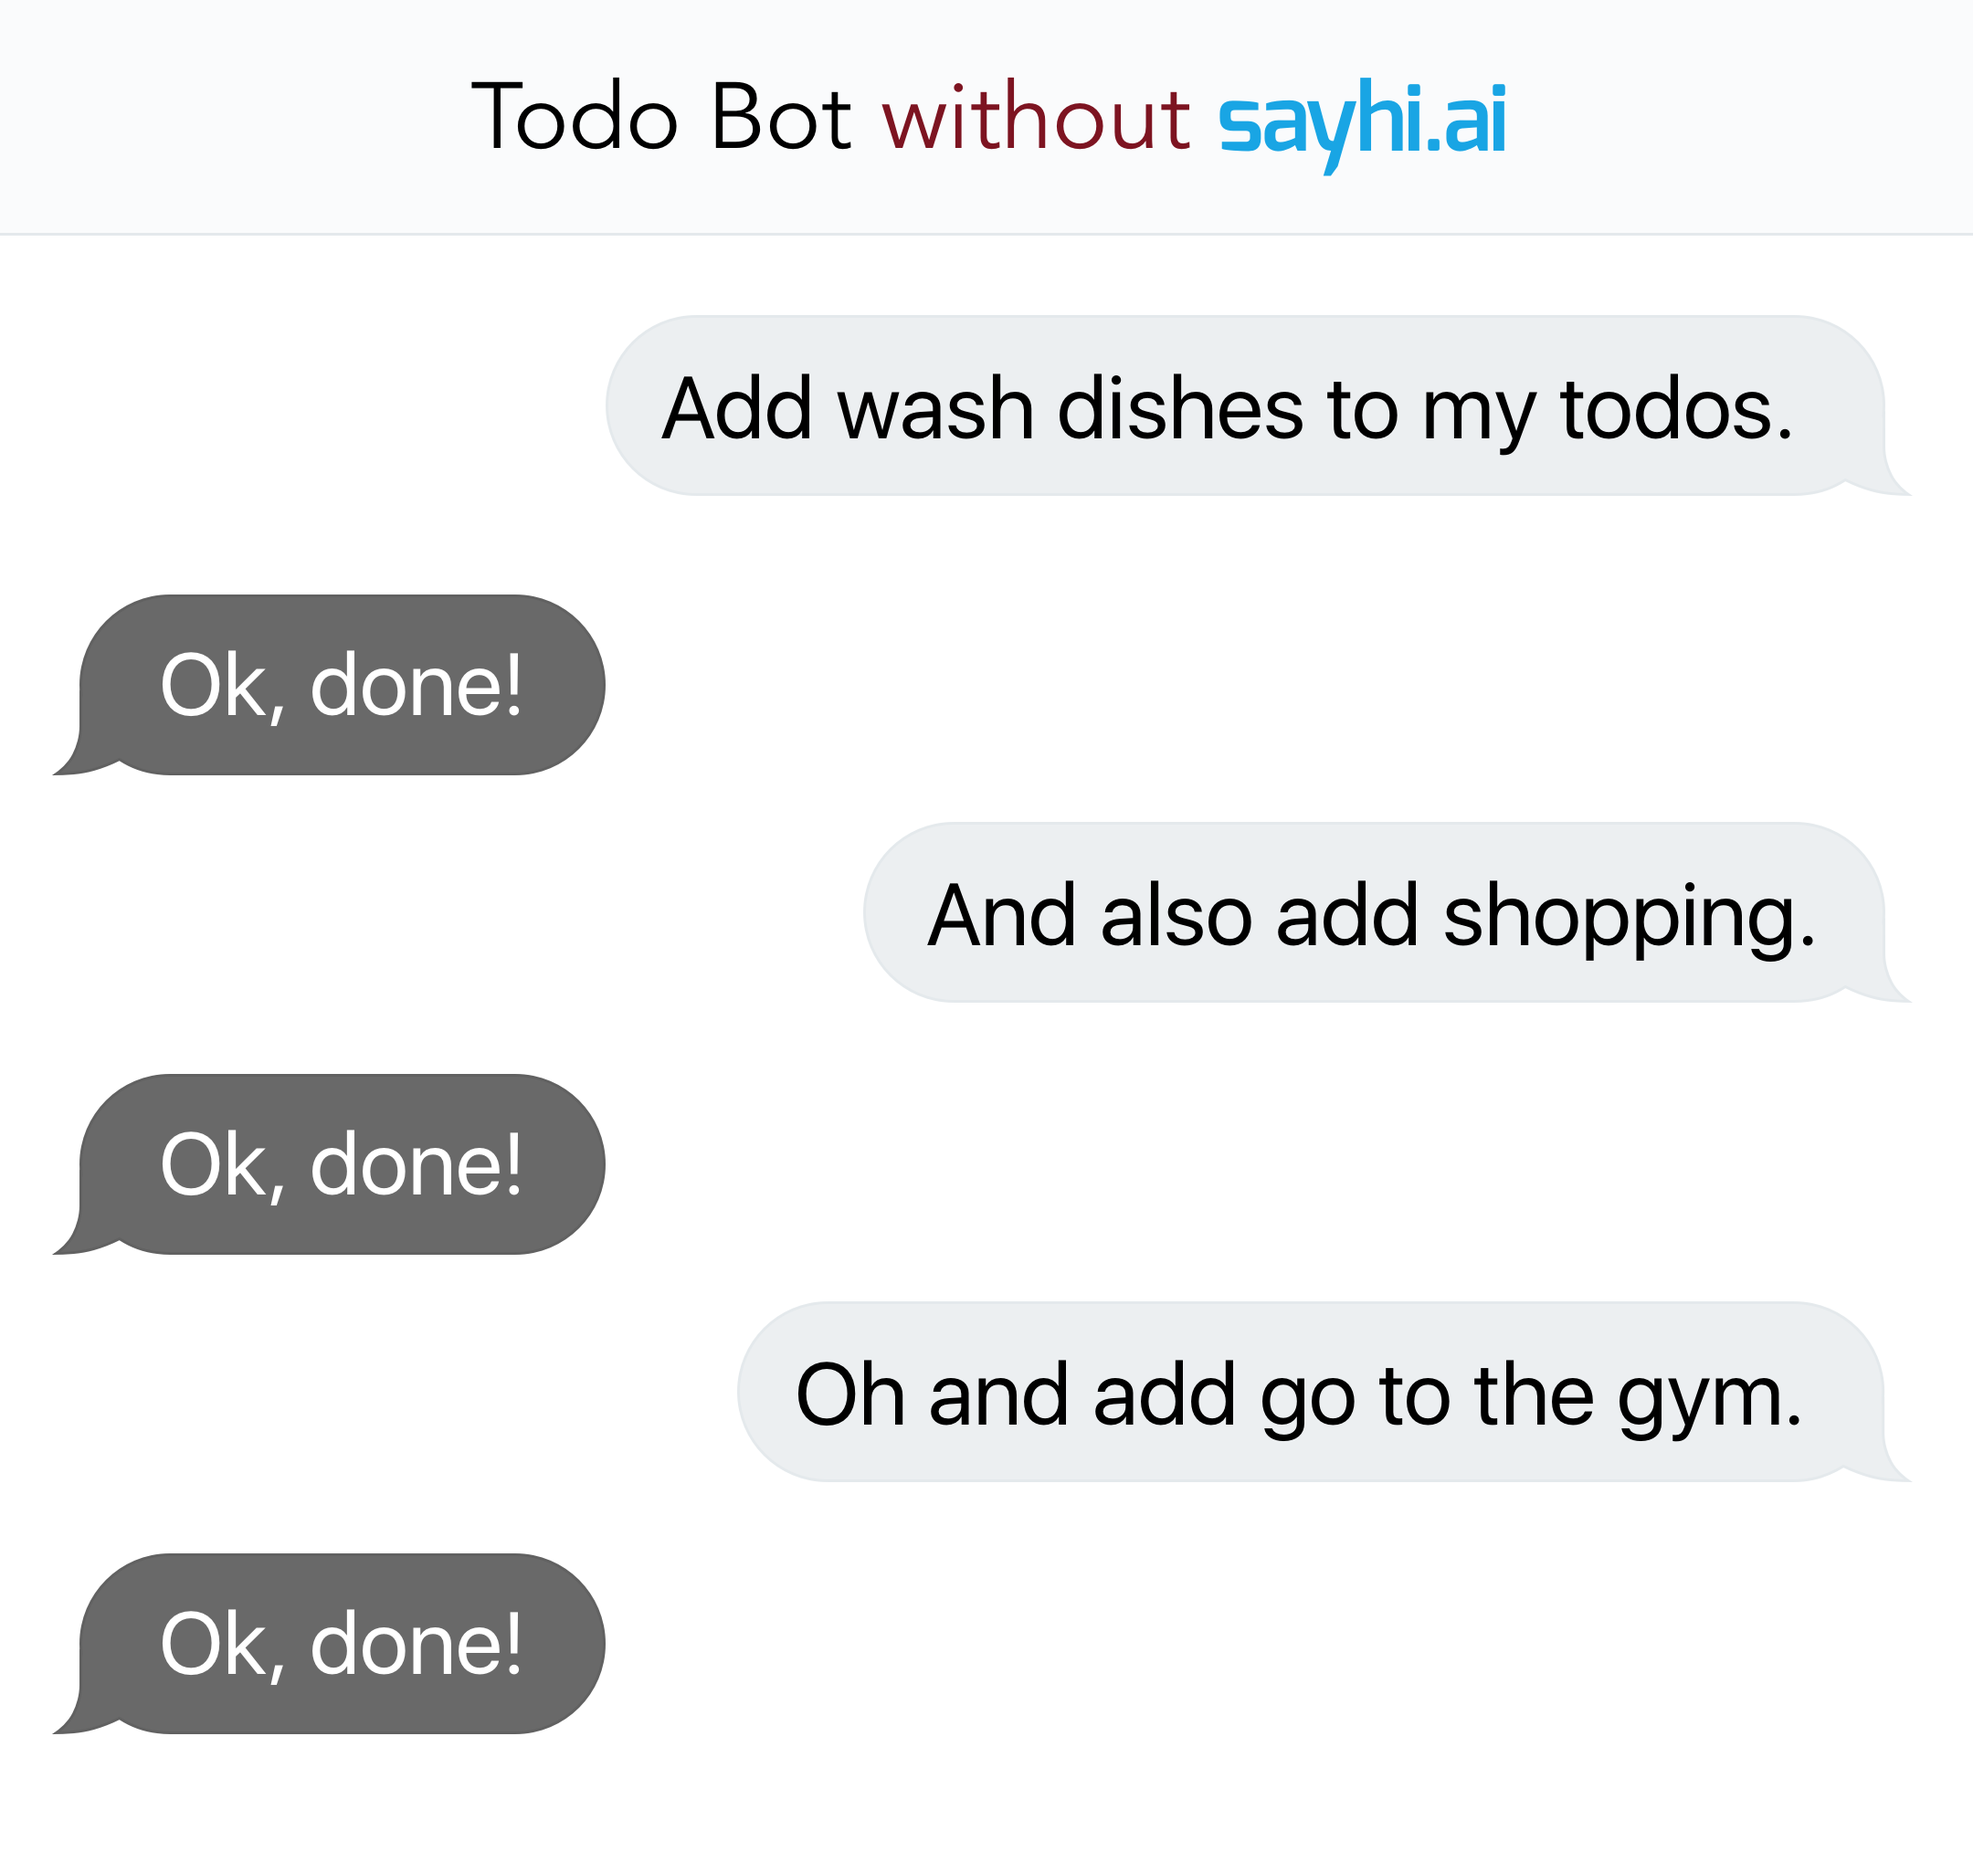
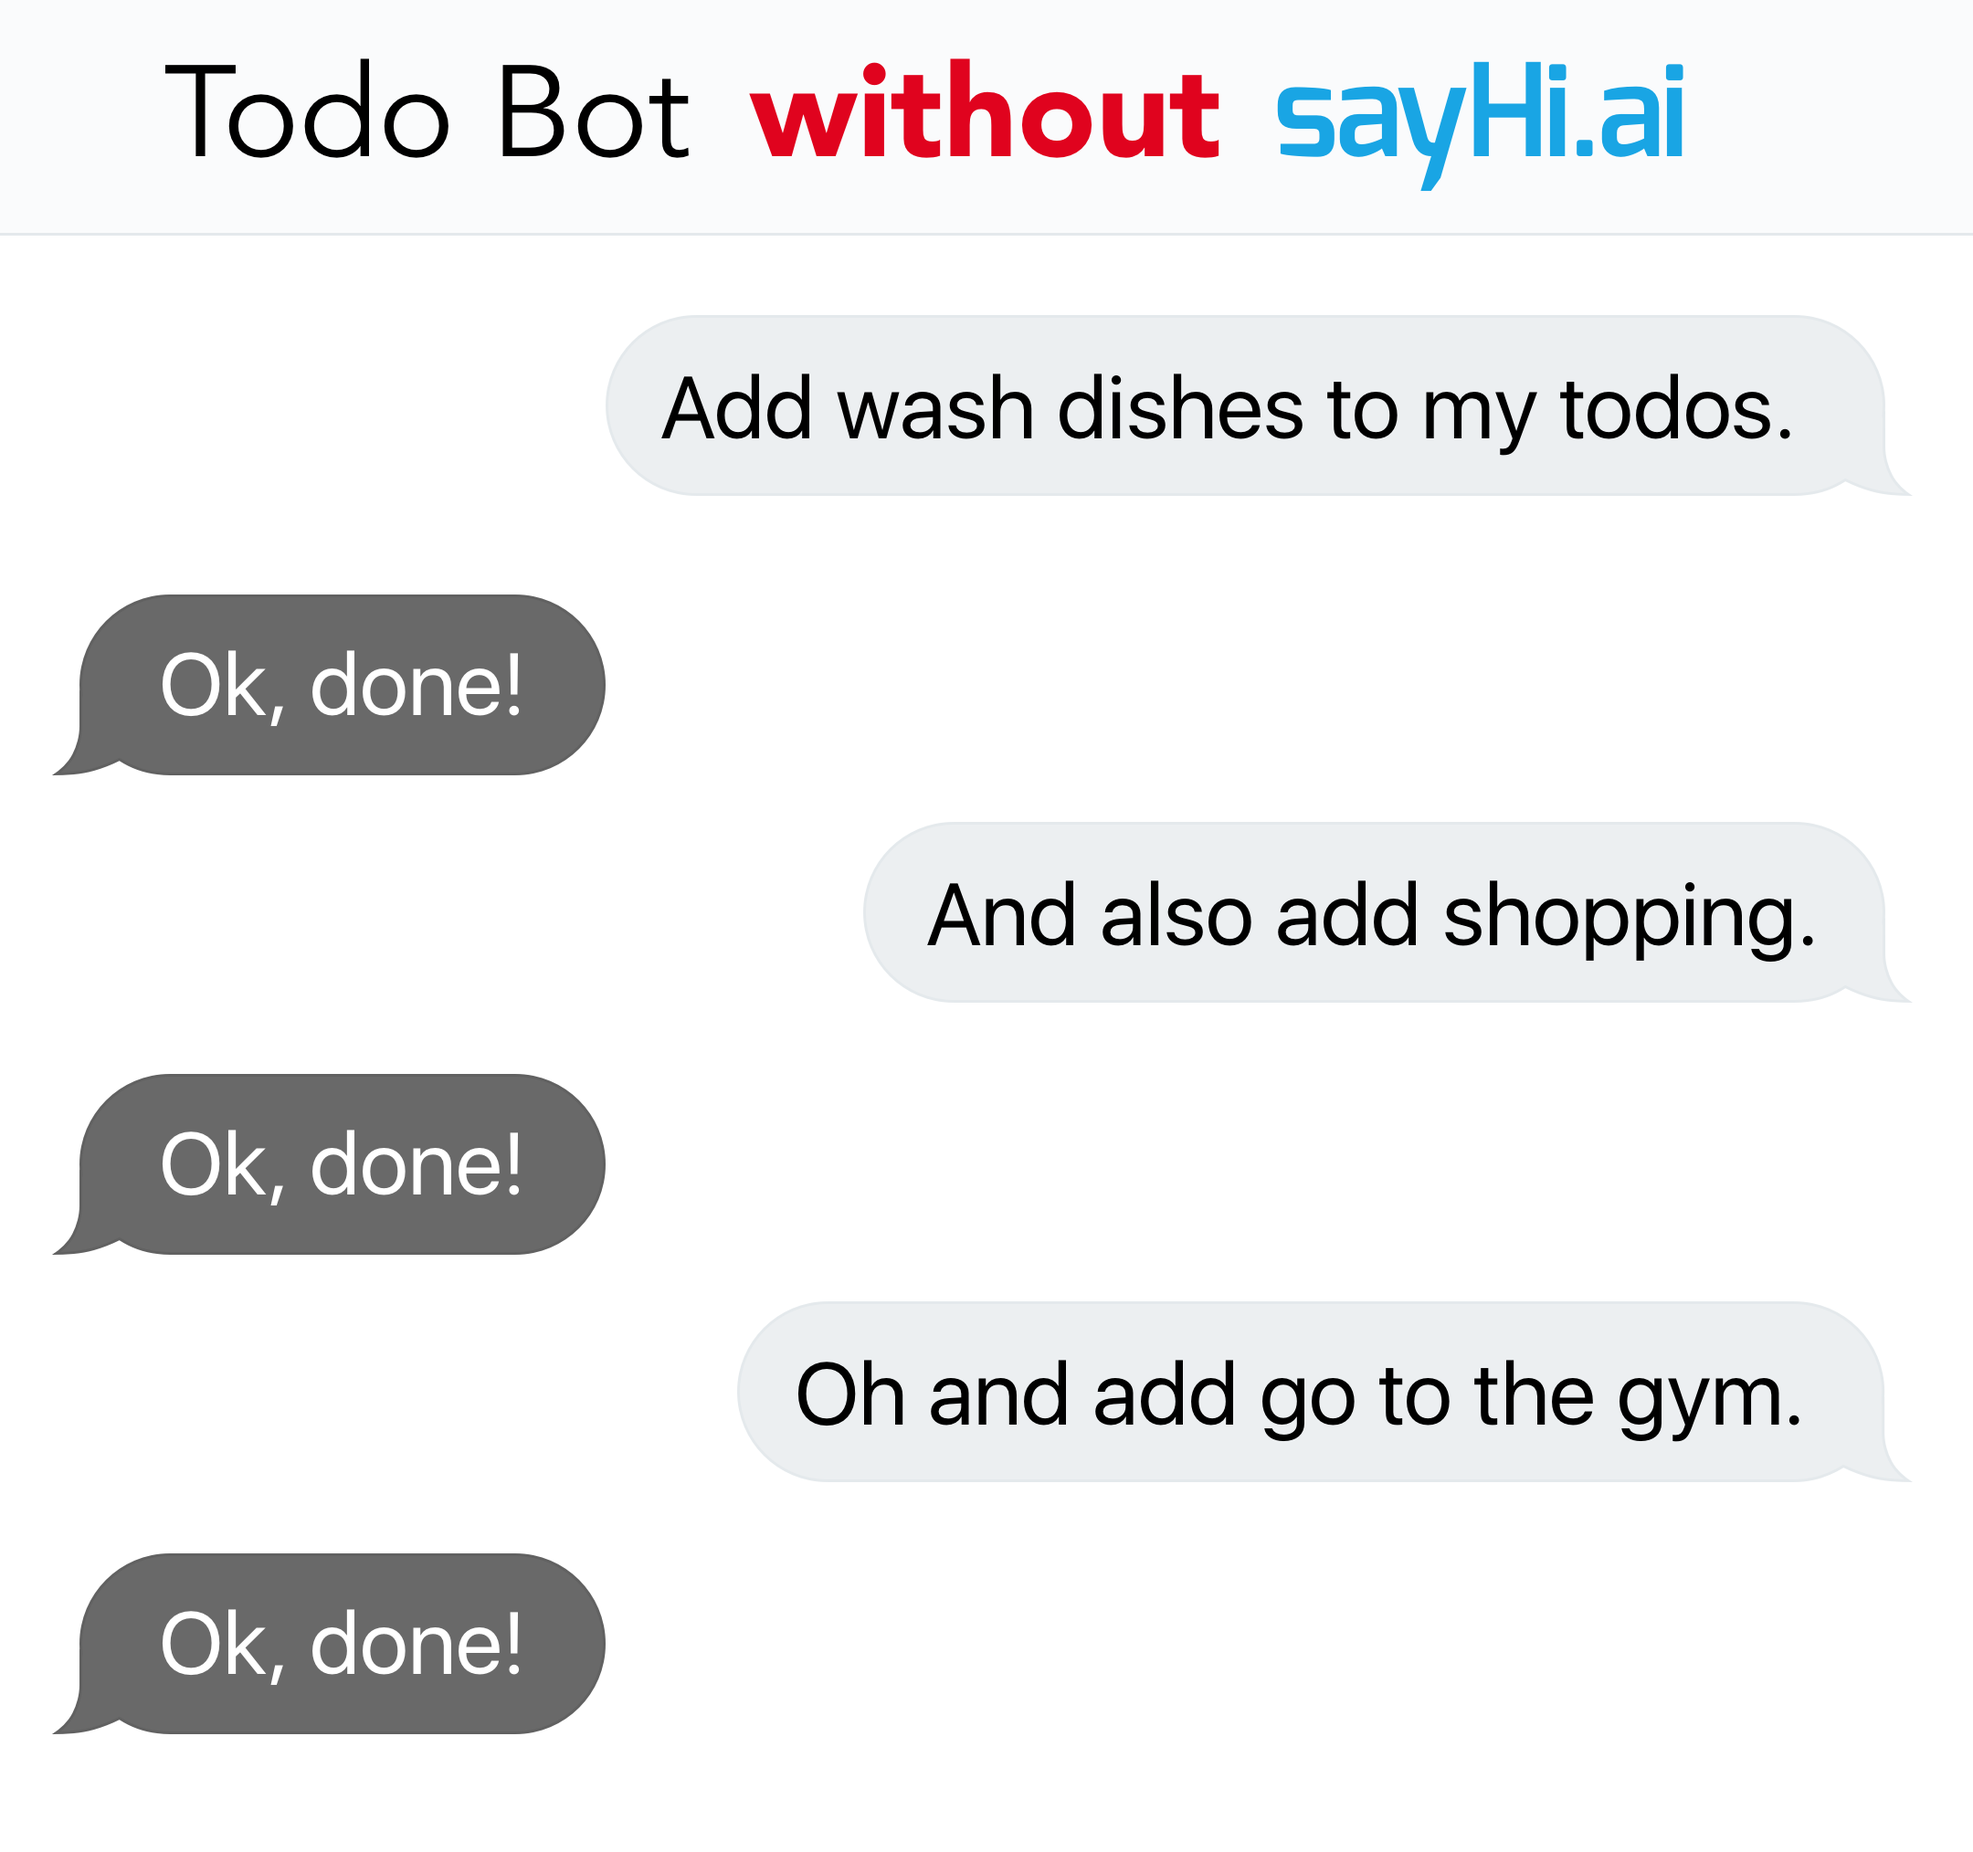
I will make the navbar GREAT AGAIN!

Changed region(s): [[0.0931, 0.0311, 0.8685, 0.0932]]

diff --git a/src/css/navbar.css b/src/css/navbar.css
@@ -27,6 +27,7 @@
     float: left;
     font-size: 1.5em;
     font-weight: 400;
+    transition: padding 0.5s;
 }
 
 .navbar-right {
@@ -35,6 +36,7 @@
     float: right;
     font-weight: 400;
     margin-right: 5px;
+    transition: padding 0.5 s;
 }
 
 .navbar-inline > a {
@@ -67,7 +69,7 @@ a.navbar-current, .navbar-left a {
     height: 30px;
     width: 35px;
     vertical-align: top;
-    background: transparent url("../resources/img/favicon.png") no-repeat;
+    background: transparent url("../resources/img/logo.png") no-repeat;
     background-size: contain;
 }
 
@@ -97,7 +99,7 @@ div.navbar:not(.opaque-navbar) .navbar-right {
 }
 
 div.navbar:not(.opaque-navbar) #navbar-logo {
-    background: transparent url("../resources/img/favicon.png") no-repeat;
+    background: transparent url("../resources/img/logo_inv.png") no-repeat;
     background-size: contain;
 }
 
